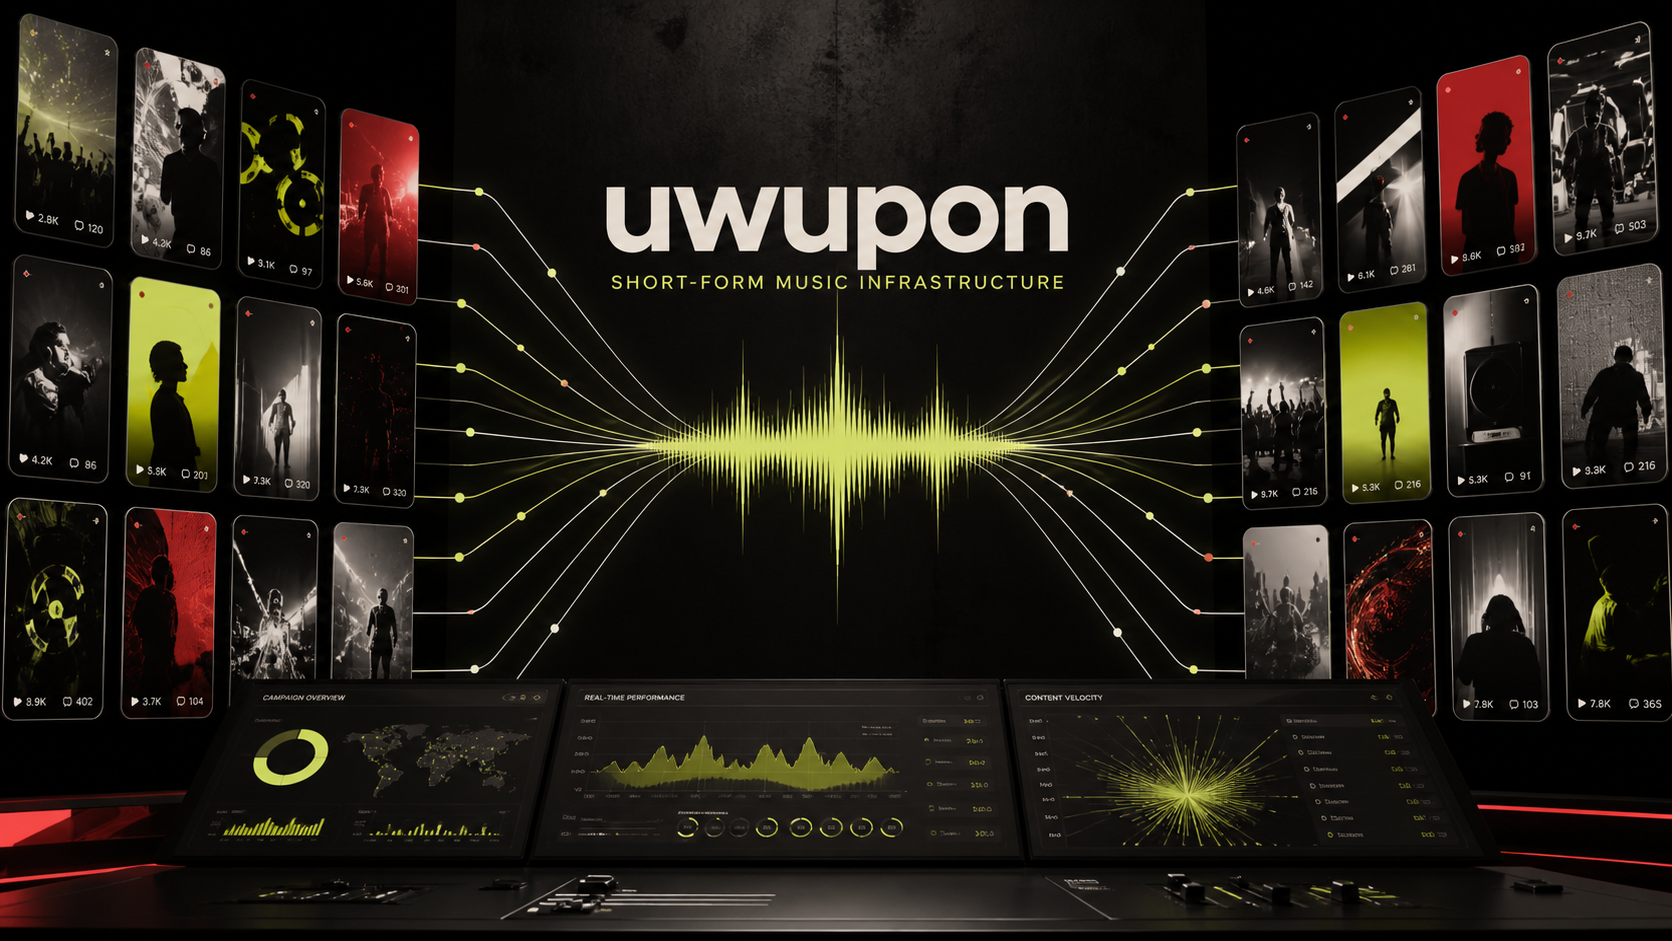
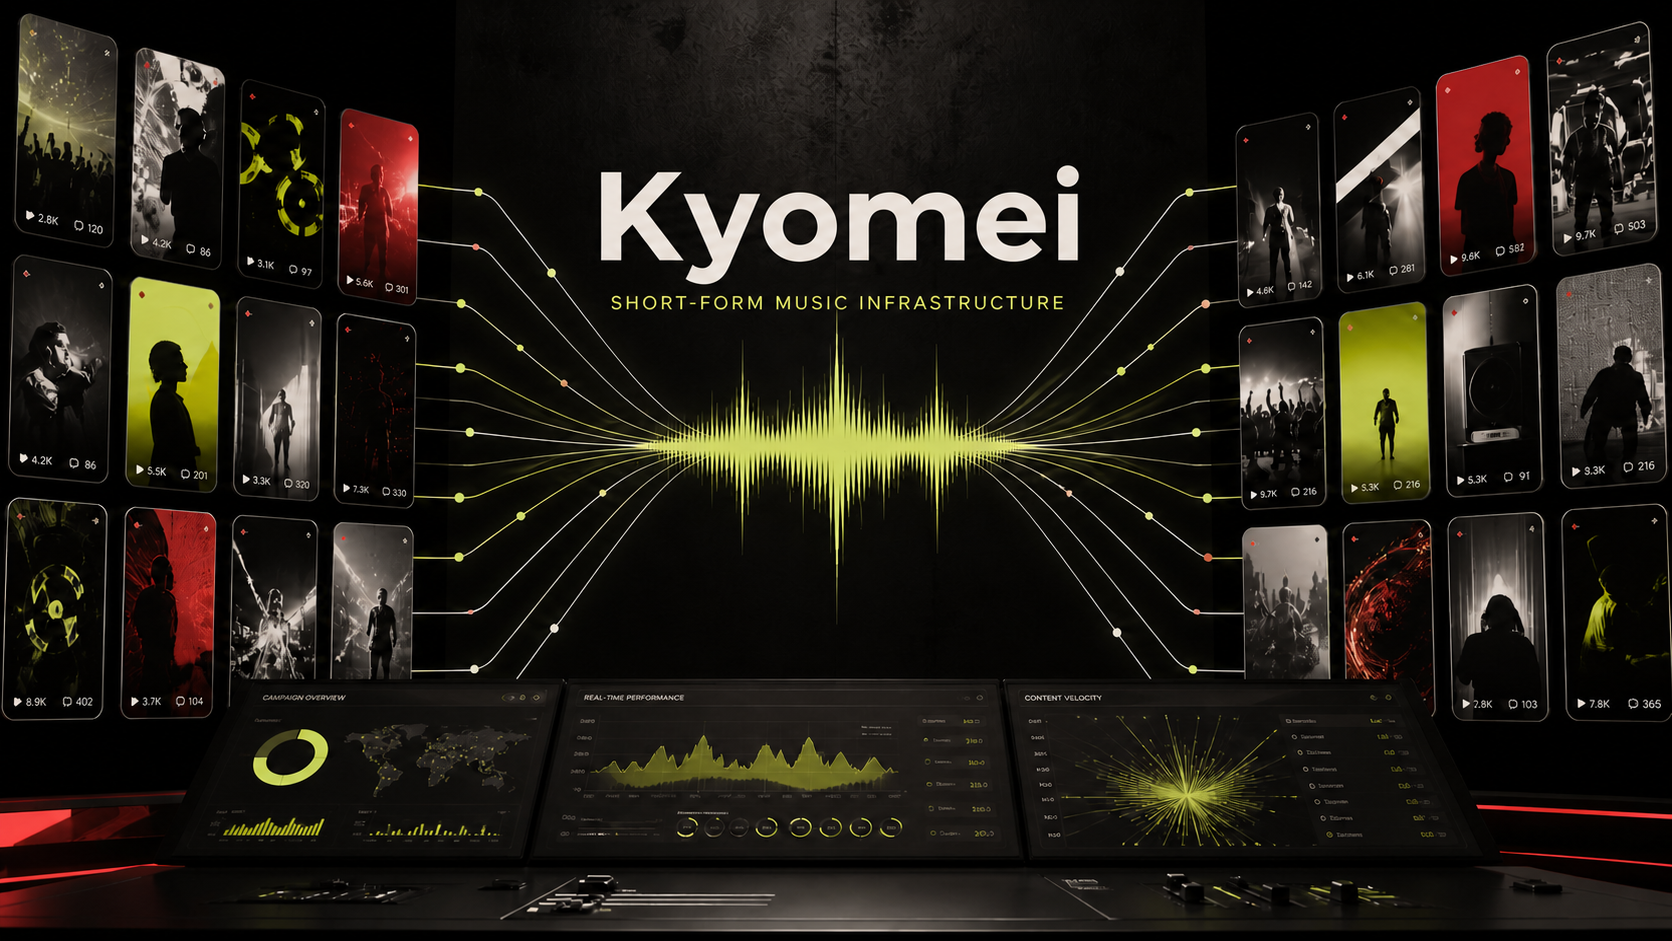
Rebrand site to Kyomei

diff --git a/app/page.tsx b/app/page.tsx
@@ -29,7 +29,7 @@ const content = {
     eyebrow: "日本の音楽市場に特化したショートフォーム戦略",
     hero: "1曲から何十本ものショート動画へ",
     intro:
-      "uwuponは、楽曲からショート動画の企画をつくり、まとめて制作し、複数の投稿面へ配信し、反応を見ながら改善する音楽マーケティングスタジオです。",
+      "Kyomei（キョウメイ）は、楽曲の魅力が伝わるショート動画を企画・制作し、反応を見ながら広げていく音楽マーケティングスタジオです。",
     proofTitle: "レーベル、マネジメント、アーティストチームのための実行体制。",
     proofCopy:
       "新曲リリース、旧譜の再発見、海外展開、日本市場へのローカライズまで。高額な単発投稿に頼り切らず、複数の企画と制作量で反応の入口を広げます。",
@@ -42,7 +42,7 @@ const content = {
     problemTitle: "音楽プロモーションは、試せる回数で差がつく。",
     problem:
       "単発のインフルエンサー投稿だけでは、どの文脈で曲が届くのか見えにくい。制作本数が少ないほど、曲の可能性はひとつの表現に固定されます。",
-    answerTitle: "uwuponは、曲の使われ方を増やします。",
+    answerTitle: "Kyomeiは、曲が届くきっかけを増やします。",
     answer:
       "サビ、歌詞、ムード、ストーリー、編集テンポ、ミーム性、コミュニティの文脈を複数に分解。反応を見ながら、強い企画へ制作と配信を集中させます。",
     modelTitle: "1曲から、複数の発見経路へ。",
@@ -69,7 +69,7 @@ const content = {
     ],
     whyTitle: "ひとつの投稿ではなく、反応が集まる構造をつくる。",
     traditional: "従来型の単発施策",
-    ours: "uwuponの運用モデル",
+    ours: "Kyomeiの運用モデル",
     traditionalList: ["投稿者が限られる", "表現の検証が少ない", "費用対効果を読みづらい", "短期間で終わりやすい", "次の施策に学びが残りにくい"],
     oursList: ["複数の企画軸を同時に試す", "制作本数で接触機会を増やす", "反応を見て改善する", "日本語圏と海外圏を分けて設計する", "次のリリースに使える知見を残す"],
     ecosystemTitle: "1曲を、コンテンツの生態系へ。",
@@ -79,7 +79,7 @@ const content = {
       ["50+", "CONTENT PIECES"],
       ["1000s", "DISCOVERY MOMENTS"],
     ],
-    plansTitle: "uwuponでできること。",
+    plansTitle: "Kyomeiでできること。",
     plansNote:
       "過去実績ではなく、相談時に設計できるキャンペーン例です。再生数、配信面、ストリーム増加は楽曲、素材、予算、投稿先、時期により変動します。",
     planLabels: {
@@ -127,7 +127,7 @@ const content = {
     ],
     aboutTitle: "広告ではなく、インターネットが使いたくなる理由をつくる。",
     about:
-      "いま音楽は、プレイリストやメディア露出だけで広がるものではありません。ショート動画、編集、ミーム、クリエイター、コミュニティ、アルゴリズムの中で、曲は何度も違う意味を持ちます。uwuponは、その環境に合わせて、楽曲が見つかる入口を増やします。",
+      "いま音楽は、プレイリストやメディア露出だけで広がるものではありません。ショート動画、編集、クリエイター、コミュニティの中で、曲は何度も新しい意味を持ちます。Kyomeiは、その流れに合わせて、楽曲が見つかる入口を増やします。",
     formTitle: "次のリリースを相談する。",
     formIntro:
       "楽曲、発売日、目標市場、予算感を共有してください。確認後、キャンペーン設計に必要な質問を整理してご連絡します。",
@@ -175,7 +175,7 @@ const content = {
     eyebrow: "SHORT-FORM MUSIC STRATEGY FOR JAPAN",
     hero: "ONE SONG. CHANGES EVERYTHING.",
     intro:
-      "uwupon turns songs into short-form concepts, produces them at volume, distributes them across relevant accounts, then tests and improves the campaign around audience response.",
+      "Kyomei turns songs into short-form concepts, produces them at volume, distributes them across relevant accounts, then tests and improves the campaign around audience response.",
     proofTitle: "Built for labels, management teams, and modern artists.",
     proofCopy:
       "For new releases, catalog rediscovery, Japan localization, and global expansion. We do not rely on a single expensive post; we build many credible entry points around a song.",
@@ -188,7 +188,7 @@ const content = {
     problemTitle: "Music promotion is now a game of attempts.",
     problem:
       "One-off influencer posts can be expensive, narrow, and hard to learn from. When creative volume is low, a song gets trapped inside one expression before the audience can show what works.",
-    answerTitle: "uwupon multiplies the ways a song can be used.",
+    answerTitle: "Kyomei multiplies the ways a song can be used.",
     answer:
       "We break a track into hooks, captions, edits, narratives, meme angles, moods, and community contexts, then concentrate production around the strongest signals.",
     modelTitle: "ONE SONG. MANY ENTRY POINTS.",
@@ -215,7 +215,7 @@ const content = {
     ],
     whyTitle: "Not one post. A structure for more signal.",
     traditional: "Traditional one-off promotion",
-    ours: "uwupon operating model",
+    ours: "Kyomei operating model",
     traditionalList: ["Limited creators", "Few creative tests", "Hard-to-read efficiency", "Short campaign life", "Little learning for the next release"],
     oursList: ["Multiple creative directions", "Higher content volume", "Continuous optimization", "Separate Japan and global angles", "Reusable learning for future releases"],
     ecosystemTitle: "ONE SONG BECOMES A CONTENT ECOSYSTEM.",
@@ -225,7 +225,7 @@ const content = {
       ["50+", "CONTENT PIECES"],
       ["1000s", "DISCOVERY MOMENTS"],
     ],
-    plansTitle: "What uwupon can do for you.",
+    plansTitle: "What Kyomei can do for you.",
     plansNote:
       "These are campaign structures, not past-client results. Views, distribution count, and stream impact vary by song, assets, budget, timing, and account fit.",
     planLabels: {
@@ -273,7 +273,7 @@ const content = {
     ],
     aboutTitle: "We do not simply advertise songs. We create reasons for the internet to use them.",
     about:
-      "Music discovery no longer lives in one place. Songs move through short videos, edits, memes, creators, communities, and recommendation systems. uwupon is built for that environment: a team that expands the number of credible entry points around a release.",
+      "Music discovery no longer lives in one place. Songs move through short videos, edits, memes, creators, communities, and recommendation systems. Kyomei is built for that environment: a team that expands the number of credible entry points around a release.",
     formTitle: "Start the next release conversation.",
     formIntro:
       "Send the track, release timing, target market, and budget range. After review, we will reply with the questions needed to shape a campaign.",
@@ -305,7 +305,7 @@ const content = {
       "Information submitted through the contact form, including name, company, email address, artist, and project details, is used only to respond to inquiries, prepare proposals, communicate about services, and improve operations. We do not sell submitted personal information to third parties.",
     termsTitle: "Terms",
     terms:
-      "This website provides general information about uwupon services. Campaign scope, fees, timing, deliverables, and performance indicators are determined by individual agreement. Unauthorized copying, redistribution, or commercial use of site content is prohibited.",
+      "This website provides general information about Kyomei services. Campaign scope, fees, timing, deliverables, and performance indicators are determined by individual agreement. Unauthorized copying, redistribution, or commercial use of site content is prohibited.",
     footer: "Tokyo, Japan",
   },
 } as const;
@@ -377,9 +377,9 @@ export default function Home() {
     <main className={`min-h-screen overflow-hidden bg-[#f5f1e9] text-[#161616] ${isJp ? "jp-page" : "en-page"}`}>
       <nav className="fixed inset-x-0 top-0 z-50 border-b border-black/10 bg-[#f5f1e9]/90 backdrop-blur-xl">
         <div className="mx-auto flex h-20 max-w-[1540px] items-center justify-between px-5 sm:px-8 lg:px-12">
-          <a href="#top" className="group flex items-center gap-3" aria-label="uwupon home">
+          <a href="#top" className="group flex items-center gap-3" aria-label="Kyomei home">
             <BrandMark />
-            <span className="text-base font-black lowercase tracking-[0.08em]">uwupon</span>
+            <span className="text-base font-black tracking-[0.08em]">Kyomei</span>
           </a>
           <div className="hidden items-center gap-7 xl:flex">
             {t.nav.map(([item, id]) => (
@@ -438,7 +438,7 @@ export default function Home() {
               </h1>
             </div>
             <div className="relative mt-4 overflow-hidden border border-black/15 bg-black shadow-2xl lg:mt-5 lg:min-h-[360px] xl:min-h-[430px]">
-              <img src="/og.png" alt="uwupon short-form music content ecosystem visual" className="aspect-[16/10] h-full min-h-[260px] w-full object-cover opacity-90 lg:aspect-auto" />
+              <img src="/og.png" alt="Kyomei short-form music content ecosystem visual" className="aspect-[16/10] h-full min-h-[260px] w-full object-cover opacity-90 lg:aspect-auto" />
               <div className="absolute inset-x-0 bottom-0 flex items-end justify-between bg-gradient-to-t from-black via-black/65 to-transparent p-5 text-white">
                 <p className="text-xs font-black uppercase tracking-[0.18em] text-white/70">Release Signal Map</p>
                 <p className="text-5xl font-black text-[#d6ff3f]">50+</p>
@@ -608,10 +608,10 @@ export default function Home() {
             <p className="mt-8 max-w-xl text-lg leading-relaxed text-white/62">{t.formIntro}</p>
           </div>
           <form action="https://formsubmit.co/aweandco@gmail.com" method="POST" onSubmit={submit} noValidate className="grid gap-5">
-            <input type="hidden" name="_subject" value="New uwupon campaign inquiry" />
+            <input type="hidden" name="_subject" value="New Kyomei campaign inquiry" />
             <input type="hidden" name="_template" value="table" />
             <input type="hidden" name="_captcha" value="false" />
-            <input type="hidden" name="_next" value="https://uwupon.aweandco.chatgpt.site/?sent=1" />
+            <input type="hidden" name="_next" value="https://uwupon.pages.dev/?sent=1" />
             <input type="text" name="_honey" className="hidden" tabIndex={-1} autoComplete="off" />
             <div className="grid gap-5 md:grid-cols-2">
               <Input name="name" label={t.fields.name} value={form.name} error={errors.name} onChange={(value) => updateField("name", value)} required />
@@ -640,14 +640,14 @@ export default function Home() {
         <div className="mx-auto grid max-w-[1540px] gap-8 border-t border-black/12 pt-10 lg:grid-cols-[0.4fr_1fr_1fr]">
           <div>
             <p className="text-xs font-black uppercase tracking-[0.2em] text-black/40">{t.legalTitle}</p>
-            <p className="mt-4 text-2xl font-black lowercase">uwupon</p>
+            <p className="mt-4 text-2xl font-black">Kyomei</p>
             <p className="mt-2 text-sm font-bold text-black/50">{t.footer}</p>
           </div>
           <LegalBlock title={t.privacyTitle} body={t.privacy} />
           <LegalBlock title={t.termsTitle} body={t.terms} />
         </div>
         <div className="mx-auto mt-10 flex max-w-[1540px] flex-col gap-5 border-t border-black/12 pt-8 md:flex-row md:items-center md:justify-between">
-          <p className="text-xs font-bold uppercase tracking-[0.14em] text-black/35">Copyright 2026 uwupon. All rights reserved.</p>
+          <p className="text-xs font-bold uppercase tracking-[0.14em] text-black/35">Copyright 2026 Kyomei. All rights reserved.</p>
           <LanguageToggle lang={lang} setLang={setLang} />
         </div>
       </section>

diff --git a/app/layout.tsx b/app/layout.tsx
@@ -13,24 +13,25 @@ const geistMono = Geist_Mono({
 });
 
 export const metadata: Metadata = {
-  metadataBase: new URL('https://uwupon.aweandco.chatgpt.site'),
+  metadataBase: new URL('https://uwupon.pages.dev'),
   title: {
-    default: 'uwupon | 日本発ショートフォーム音楽マーケティング',
-    template: '%s | uwupon',
+    default: 'Kyomei | 日本発ショートフォーム音楽マーケティング',
+    template: '%s | Kyomei',
   },
   description:
-    'uwupon is a Tokyo-based short-form music marketing studio for artists, labels, management teams, and Japan-global music releases.',
+    'Kyomei is a Tokyo-based short-form music marketing studio for artists, labels, management teams, and Japan-global music releases.',
   keywords: [
+    'Kyomei',
+    'キョウメイ',
     'music marketing Japan',
     'Japanese music marketing agency',
     'TikTok music campaign',
     'short-form music marketing',
     'Japan music promotion',
-    'uwupon',
   ],
-  authors: [{ name: 'uwupon' }],
-  creator: 'uwupon',
-  publisher: 'uwupon',
+  authors: [{ name: 'Kyomei' }],
+  creator: 'Kyomei',
+  publisher: 'Kyomei',
   alternates: {
     canonical: '/',
   },
@@ -39,15 +40,15 @@ export const metadata: Metadata = {
     locale: 'ja_JP',
     alternateLocale: ['en_US'],
     url: '/',
-    siteName: 'uwupon',
-    title: 'uwupon | Short-Form Music Marketing for Japan',
+    siteName: 'Kyomei',
+    title: 'Kyomei | Short-Form Music Marketing for Japan',
     description:
       'A Tokyo-based music marketing studio creating short-form content systems for artists, labels, and Japan-global releases.',
     images: ['/og.png'],
   },
   twitter: {
     card: 'summary_large_image',
-    title: 'uwupon | Short-Form Music Marketing for Japan',
+    title: 'Kyomei | Short-Form Music Marketing for Japan',
     description:
       'Short-form campaign strategy, production, distribution, testing, and reporting for modern music releases.',
     images: ['/og.png'],

diff --git a/README.md b/README.md
@@ -1,10 +1,10 @@
-# uwupon
+# Kyomei
 
 Premium bilingual website for a Japanese music marketing agency focused on short-form discovery campaigns.
 
 ## Overview
 
-uwupon is a polished marketing site for helping artists, labels, and music teams turn one song into many short-form video moments across Japanese-facing social platforms. The site is designed to work in both English and Japanese, with Japanese copy written to feel natural for local readers rather than translated word-for-word.
+Kyomei is a polished marketing site for helping artists, labels, and music teams turn one song into many short-form video moments across Japanese-facing social platforms. The site is designed to work in both English and Japanese, with Japanese copy written to feel natural for local readers rather than translated word-for-word.
 
 ## Highlights
 
